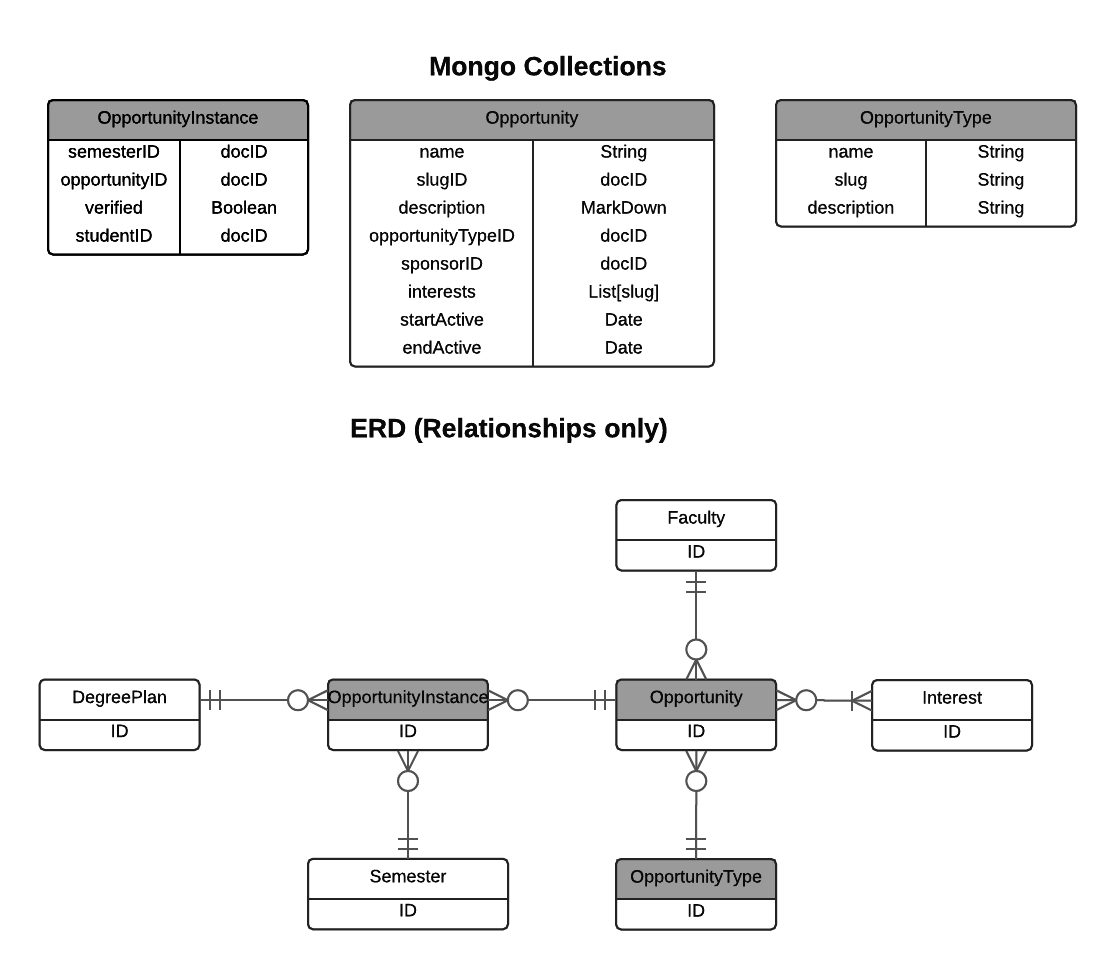
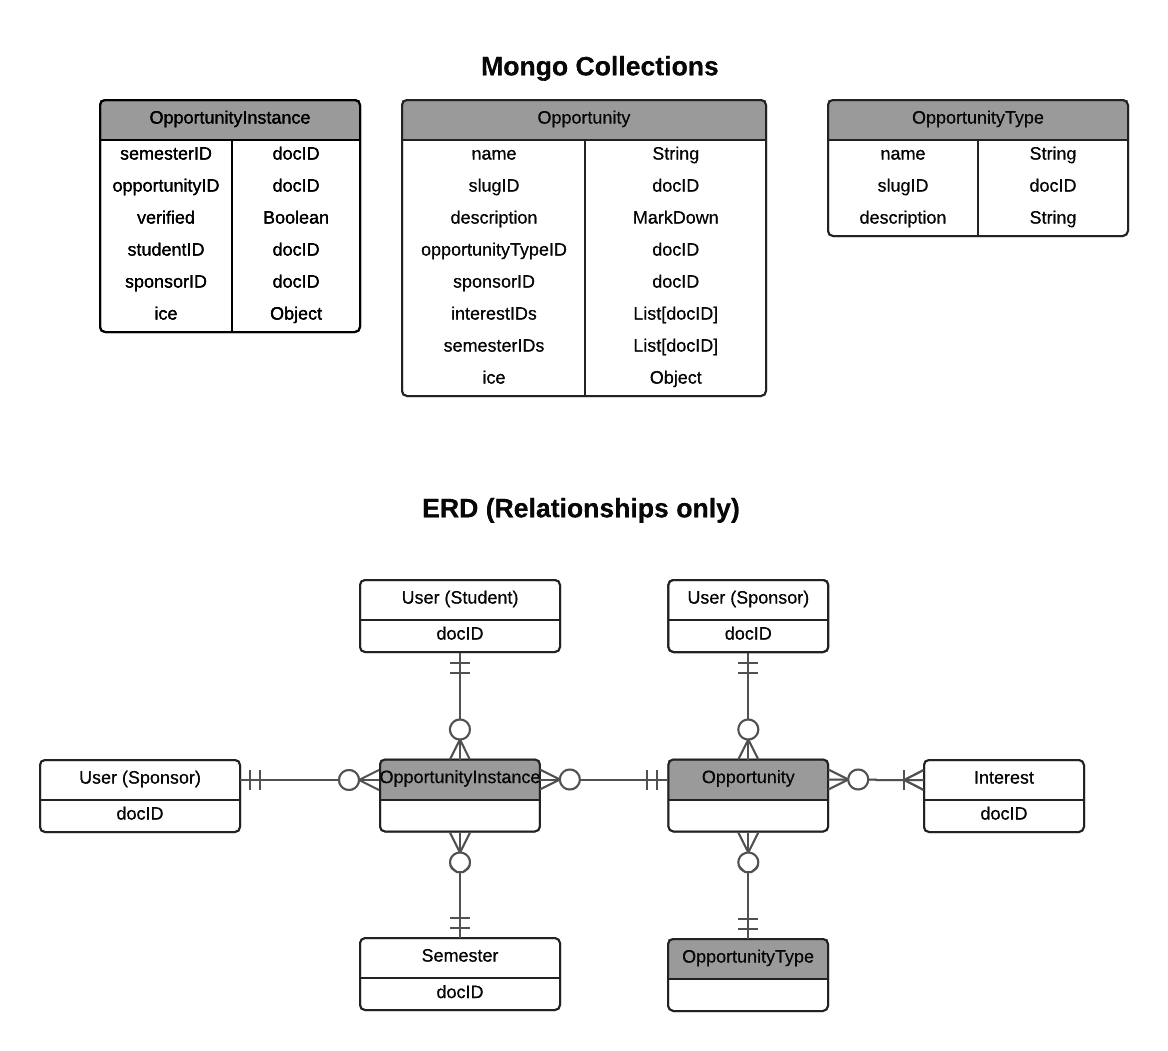
Starting work on ERD diagrams for GitBook. (Shouldn't be in this branch).

diff --git a/app/client/main.js b/app/client/main.js
@@ -63,12 +63,12 @@ import '/imports/ui/pages/mentor';
 import '/imports/ui/pages/student';
 import '/imports/ui/pages/guidedtour';
 
-import '/imports/ui/stylesheets/style.css';
 
 import '/imports/ui/utilities';
 
 import './lib/semantic-ui/semantic.min.css';
 import './lib/semantic-ui/semantic.min.js';
+import '../imports/ui/stylesheets/style.css';
 
 Tracker.autorun(function (c) {
   try {

diff --git a/gitbook/datamodel/entity-relationship-model.md b/gitbook/datamodel/entity-relationship-model.md
@@ -1,0 +1,21 @@
+# Entity-Relationship Model
+
+The prior section illustrated the relationships between the data model entities in terms of class inheritance. That perspective reveals how code is shared.
+
+This section documents the direct relationships between data model entities.  Depending upon your perspective, you might think of these references as "pointers", "foreign keys", or "references".  For example, each document in the CourseInstance collection needs to refer to a specific Semester in which the course instance occurs, a specific student who has/is/will be taking the course, and a specific Course. These references are implemented via fields in the CourseInstance document that hold the docID to a document in the other entity's collection. So, each CourseInstance document has the following fields (among others): SemesterID, StudentID, and CourseID.
+
+## Opportunity
+
+In RadGrad, extracurricular events and activities are called "Opportunities", and are represented by three entities: Opportunity, OpportunityType, and OpportunityInstance. 
+
+<img src="images/Opportunity.png" width="100%"> 
+ 
+OpportunityType specifies the kind of Opportunity: club, event, online course, etc.
+
+Opportunity represents the opportunity "in the abstract", specifying its description, sponsor (i.e the faculty member responsible for managing the description and verifying student participation), the ICE points, the semesters it might be available, etc.
+
+OpportunityInstance represents an "instantiation" of the Opportunity in a specific semester for a specific student. It also duplicates the ICE points and the sponsorID from the Opportunity. This enables an instance to depart from its parent Opportunity with respect to these values, and also speeds lookup.
+
+
+
+

diff --git a/gitbook/SUMMARY.md b/gitbook/SUMMARY.md
@@ -42,7 +42,7 @@
 
 * [Overview](datamodel/overview.md)
 * [Class Hierarchy](datamodel/class-hierarchy.md)
-* Entity-Relationship Model
+* [Entity-Relationship Model](datamodel/entity-relationship-model.md)
 * [Slugs](datamodel/slugs.md)
 * Roles
 * Dump/Restore
